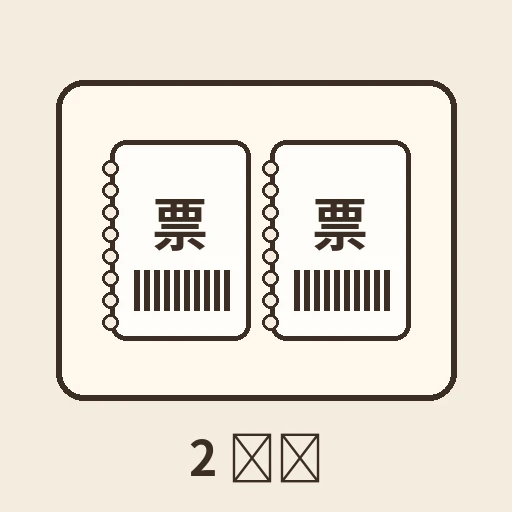
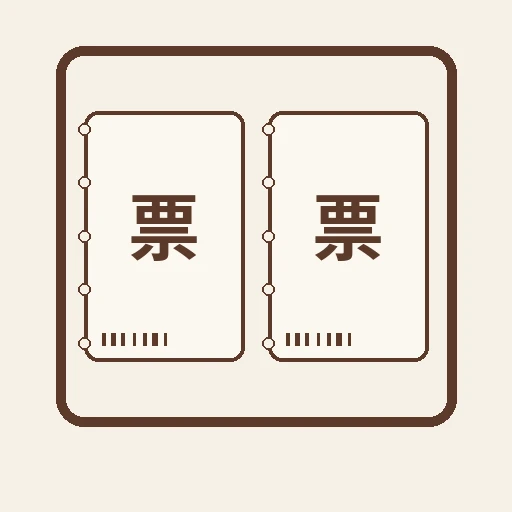
Fix B3 L03 duplicate lws key and B2 L10 ticket art
Rename the shirt-answer key to lwc so it is not overwritten by the
question lws; reply step 41 again accepts 我的礼物是一件衬衫 (audio
p03-lws-f unchanged). Regenerate book2 ticket1/ticket2 without Thai
caption text (no tofu boxes) and use ticket1 for the 一张票 sortmap
sentence so it shows one ticket.

Changed region(s): [[0.0938, 0.0625, 0.9062, 0.9688]]

diff --git a/chinese-class-web/proto/book3-v4/L03.html b/chinese-class-web/proto/book3-v4/L03.html
@@ -22,7 +22,7 @@ const X={
  d:S('太好了！我很喜欢跟大家见面。','tài hǎo le! wǒ hěn xǐhuan gēn dàjiā jiànmiàn.','ดีจริง ๆ ปู่ชอบได้เจอหน้าทุกคนมาก','p03-d-t'),
  e:S('爷爷，这是我的礼物，您看看！','yéye, zhè shì wǒ de lǐwù, nín kànkan!','คุณปู่คะ นี่ของขวัญของหนู ลองดูสิคะ','p03-e-f'),
  f:S('谢谢！我先找我的眼镜。','xièxie! wǒ xiān zhǎo wǒ de yǎnjìng.','ขอบใจนะ ปู่ขอหาแว่นก่อน','p03-f-t'),
- lws:S('我的礼物是一件衬衫。','wǒ de lǐwù shì yí jiàn chènshān.','ของขวัญของฉันคือเสื้อเชิ้ตหนึ่งตัว','p03-lws-f'),
+ lwc:S('我的礼物是一件衬衫。','wǒ de lǐwù shì yí jiàn chènshān.','ของขวัญของฉันคือเสื้อเชิ้ตหนึ่งตัว','p03-lws-f'),
  zsw:S('这是我的礼物。','zhè shì wǒ de lǐwù.','นี่คือของขวัญของฉัน','p03-zsw-f'),
  slw:S('我送你一个礼物。','wǒ sòng nǐ yí ge lǐwù.','ฉันให้ของขวัญเธอชิ้นหนึ่ง','p03-slw-m'),
  bcs:S('他穿白衬衫。','tā chuān bái chènshān.','เขาใส่เสื้อเชิ้ตสีขาว','p03-bcs-g'),
@@ -97,7 +97,7 @@ LESSON({no:3,code:'บท 1-3',title:'งานวันเกิดคุณป
  tf({tag:TQ(6),k:'p03-f-t',img:YJ.img,card:'<b>คุณปู่</b><br>ต้องหาแว่นก่อน',ans:0,fb:'<span class="zh">我先找我的眼镜。</span> = ขอหาแว่นก่อน'}),
  part({lab:'ภารกิจท้ายบท',of:0,title:'เลือกของขวัญให้คุณปู่',chips:['ฟังแล้วแตะ','ตอบคุณปู่','เติมคำ','เรียงประโยค'],note:'ไม่มีคำแปลภาษาไทยแล้ว ฟังแล้วตอบให้ถูกทั้ง 4 ข้อ'}),
  point({tag:MQ(1),noTh:1,q:'ฟังแล้วแตะของที่พูดถึง',this:'คือสิ่งนี้',cards:GIFT,rounds:[{zh:X.yzy.zh,k:X.yzy.k,ans:2},{zh:X.csp.zh,k:X.csp.k,ans:1},{zh:X.c3.zh,k:X.c3.k,ans:3},{zh:X.slw.zh,k:X.slw.k,ans:0}]}),
- reply({tag:MQ(2),noTh:1,q:'คุณปู่ถามว่าของขวัญของคุณคืออะไร',line:{...X.lwt,who:'m'},opts:[X.lws, X.jcj, X.hzby],ans:0}),
+ reply({tag:MQ(2),noTh:1,q:'คุณปู่ถามว่าของขวัญของคุณคืออะไร',line:{...X.lwt,who:'m'},opts:[X.lwc, X.jcj, X.hzby],ans:0}),
  blank({tag:MQ(3),noTh:1,s:'她_跳舞。',opts:['节目', '见面', '表演'],ans:2,k:'p03-bytw-m',fb:'<span class="zh">她表演跳舞。</span>'}),
  order({tag:MQ(4),noTh:1,th:'',tiles:[tl('我','wǒ'),tl('送','sòng'),tl('你','nǐ'),tl('一个礼物','yí ge lǐwù'),tl('节目','jiémù')],ans:[0,1,2,3],end:'。',k:'p03-slw-m'}),
  fin({title:'พูดเรื่องของขวัญและการแสดงได้แล้ว',html:dlgH(D,{noTh:1}),chips:[LW,CS,YJ,BY,JM,SY,JMN].map(x=>({zh:x.zh,py:x.py,th:x.th,k:x.k})),note:'แตะฟองหรือคำเพื่อฟังอีกครั้ง',k:'dlg:L03',kl:'ฟังทั้งบทสนทนา'})]});
